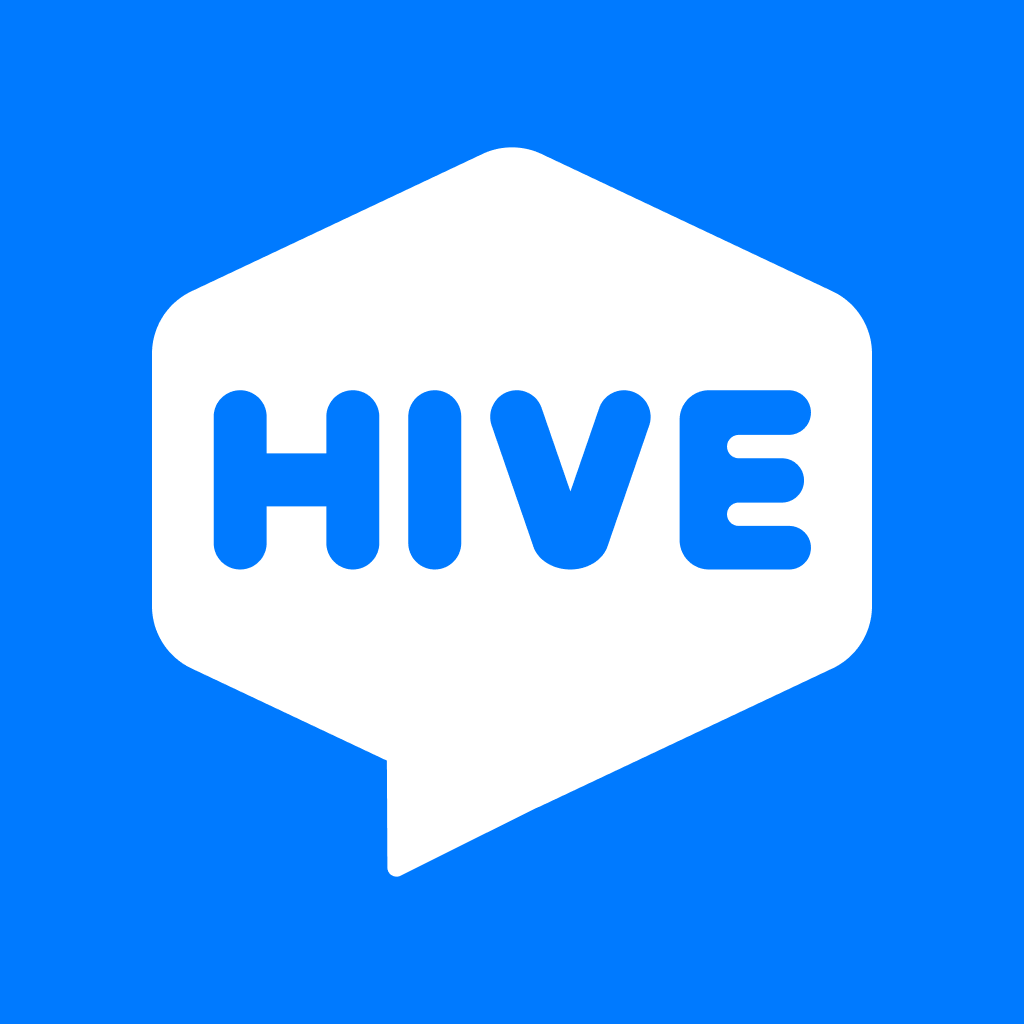
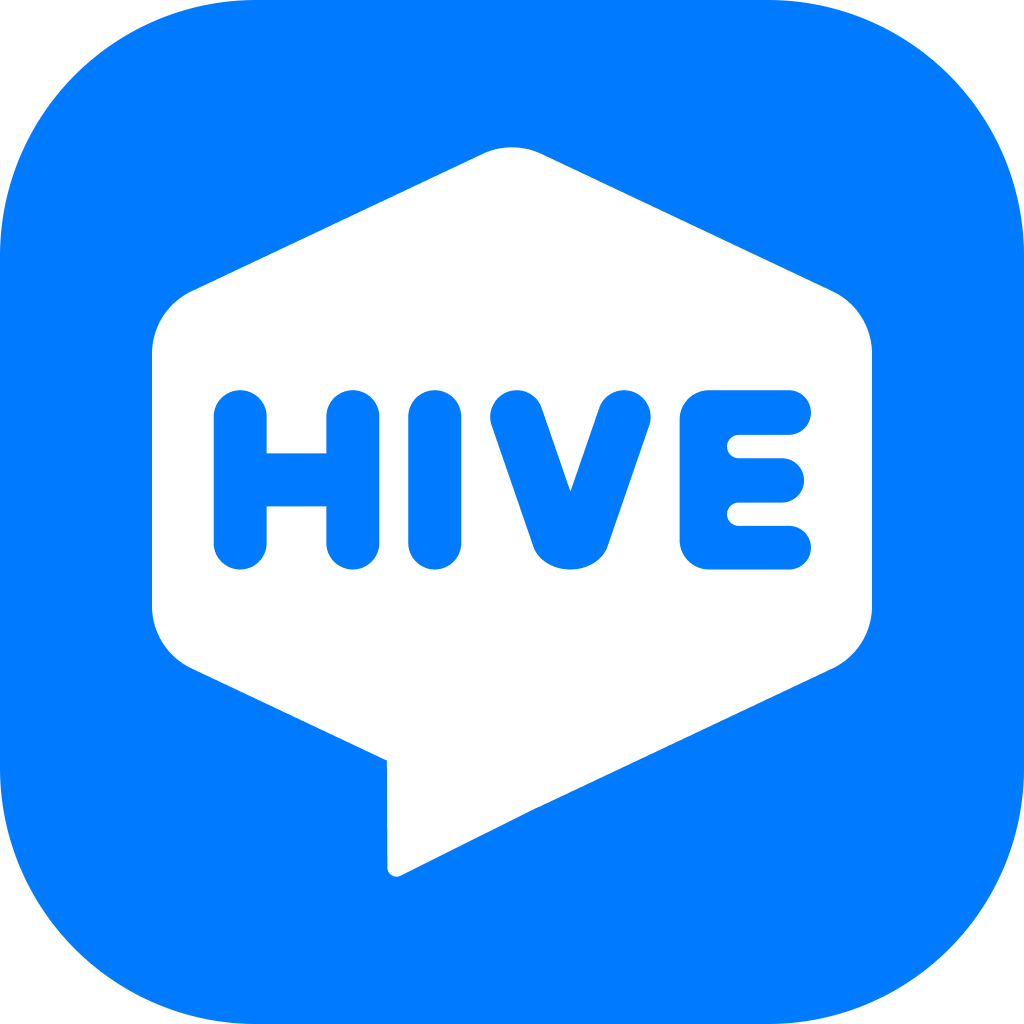
[feat]: 안읽음 배지(작업 표시줄·트레이)와 앱·트레이 아이콘 라운딩
- 작업 표시줄: setOverlayIcon 빨간 점 — 맥 dock 배지의 윈도우 대응물.
  오버레이는 캔버스째 슬롯에 스케일되므로 32px 중앙 배치(화면 ~10px)로 그린다
- 트레이: 아이콘 모서리 라운딩(4/16) + 배지 시 14px 축소 + 6px 점 모서리 걸침
  (가공 로직 trayIcon.ts 분리, BGRA·프리멀티플라이드 주의 주석)
- 앱 아이콘(icon.ico/png) 25% 라운딩 재생성 — 작업 표시줄·시작 메뉴·설치기 전역 적용

Claude-Session: https://claude.ai/code/session_01BD8X2fiKNc4ZRpAk6MDeCq

diff --git a/electron/trayIcon.ts b/electron/trayIcon.ts
@@ -1,0 +1,100 @@
+import { nativeImage } from 'electron';
+import { getIconPath } from './utils';
+
+/* ─── Windows·Linux 트레이 아이콘 가공 ─────────────────────────────
+   원본 앱 아이콘(정사각형)을 16px로 줄인 뒤 모서리를 둥글게 깎고, 안읽음 상태에는
+   우하단에 빨간 점을 합성한다 (2026-09-01 QA: 정사각형이 트레이에서 투박하고,
+   기존 점은 지름 10px + 검정 테두리라 과대했음 → 지름 7px, 테두리 없이 AA만).
+   비트맵은 BGRA 순서 + 프리멀티플라이드 알파 — 색상값에 알파를 곱해 다뤄야 한다.
+   macOS는 전용 템플릿 아이콘(trayIconTemplate.png)을 쓰므로 이 모듈과 무관. */
+
+const SIZE = 16;
+const CORNER_RADIUS = 4;
+const DOT_RADIUS = 3; // 지름 6px (미리보기 확정 2026-09-01 — 7px는 과대)
+// 배지 상태: 캔버스(16px) 밖으로 점을 내밀 수 없으므로 아트워크를 13px로 줄여 좌상단에
+// 배치하고, 점 중심을 그 우하단 모서리에 둬 50/50로 걸치게 한다 (사용자 결정 2026-09-01,
+// 텔레그램 트레이 배지와 동일 기법)
+const BADGE_ART_SIZE = 14; // 점 대비 아이콘을 키움 (미리보기 확정 2026-09-01: 14px + 점 6px)
+const BADGE_ART_RADIUS = 3.5; // 14px 아트워크에 비례한 라운딩 (4 × 14/16 = 3.5)
+const DOT_CENTER = 13; // 점(지름 6px)이 10~16에 걸침 — 아트워크 모서리(14,14)에 50/50
+// 배지 색 #FF3B30 (작업 표시줄 오버레이와 동일) — BGRA 순서
+const DOT_B = 0x30;
+const DOT_G = 0x3b;
+const DOT_R = 0xff;
+
+let cachedBase: Electron.NativeImage | null = null;
+let cachedBadge: Electron.NativeImage | null = null;
+
+/** 픽셀 중심 (x+0.5, y+0.5)의 둥근 사각형(size×size, 반경 radius) 커버리지(0~1) — 경계 1px AA */
+function roundedCoverage(x: number, y: number, size: number, radius: number): number {
+  const px = x + 0.5;
+  const py = y + 0.5;
+  const nearLeft = px < radius;
+  const nearRight = px > size - radius;
+  const nearTop = py < radius;
+  const nearBottom = py > size - radius;
+  if (!(nearLeft || nearRight) || !(nearTop || nearBottom)) return 1; // 모서리 사분면 밖
+  const cx = nearLeft ? radius : size - radius;
+  const cy = nearTop ? radius : size - radius;
+  const dist = Math.hypot(px - cx, py - cy);
+  return Math.max(0, Math.min(1, radius + 0.5 - dist));
+}
+
+/** 기본 트레이 아이콘 — 모서리 둥근 16px */
+export function getRoundedTrayIcon(): Electron.NativeImage {
+  if (cachedBase) return cachedBase;
+  const buf = Buffer.from(
+    nativeImage.createFromPath(getIconPath()).resize({ width: SIZE, height: SIZE }).toBitmap(),
+  );
+  for (let y = 0; y < SIZE; y++) {
+    for (let x = 0; x < SIZE; x++) {
+      const f = roundedCoverage(x, y, SIZE, CORNER_RADIUS);
+      if (f >= 1) continue;
+      const o = (y * SIZE + x) * 4;
+      buf[o] = Math.round(buf[o] * f);
+      buf[o + 1] = Math.round(buf[o + 1] * f);
+      buf[o + 2] = Math.round(buf[o + 2] * f);
+      buf[o + 3] = Math.round(buf[o + 3] * f);
+    }
+  }
+  cachedBase = nativeImage.createFromBuffer(buf, { width: SIZE, height: SIZE });
+  return cachedBase;
+}
+
+/** 안읽음 트레이 아이콘 — 13px 아트워크 + 우하단 모서리에 50/50로 걸친 빨간 점(지름 7px) */
+export function getRoundedTrayBadgeIcon(): Electron.NativeImage {
+  if (cachedBadge) return cachedBadge;
+  const art = nativeImage
+    .createFromPath(getIconPath())
+    .resize({ width: BADGE_ART_SIZE, height: BADGE_ART_SIZE })
+    .toBitmap();
+  const buf = Buffer.alloc(SIZE * SIZE * 4); // 투명 캔버스에 좌상단 정렬로 합성
+  for (let y = 0; y < BADGE_ART_SIZE; y++) {
+    for (let x = 0; x < BADGE_ART_SIZE; x++) {
+      const f = roundedCoverage(x, y, BADGE_ART_SIZE, BADGE_ART_RADIUS);
+      const src = (y * BADGE_ART_SIZE + x) * 4;
+      const dst = (y * SIZE + x) * 4;
+      buf[dst] = Math.round(art[src] * f);
+      buf[dst + 1] = Math.round(art[src + 1] * f);
+      buf[dst + 2] = Math.round(art[src + 2] * f);
+      buf[dst + 3] = Math.round(art[src + 3] * f);
+    }
+  }
+  for (let y = 0; y < SIZE; y++) {
+    for (let x = 0; x < SIZE; x++) {
+      const a = Math.max(
+        0,
+        Math.min(1, DOT_RADIUS + 0.5 - Math.hypot(x + 0.5 - DOT_CENTER, y + 0.5 - DOT_CENTER)),
+      );
+      if (a <= 0) continue;
+      const o = (y * SIZE + x) * 4;
+      // 프리멀티플라이드 "over" 합성: src*α + dst*(1-α)
+      buf[o] = Math.round(DOT_B * a + buf[o] * (1 - a));
+      buf[o + 1] = Math.round(DOT_G * a + buf[o + 1] * (1 - a));
+      buf[o + 2] = Math.round(DOT_R * a + buf[o + 2] * (1 - a));
+      buf[o + 3] = Math.round(255 * a + buf[o + 3] * (1 - a));
+    }
+  }
+  cachedBadge = nativeImage.createFromBuffer(buf, { width: SIZE, height: SIZE });
+  return cachedBadge;
+}

diff --git a/electron/ipc.ts b/electron/ipc.ts
@@ -1,7 +1,8 @@
 import { app, BrowserWindow, dialog, ipcMain, nativeImage, session, Tray } from 'electron';
 import * as fs from 'fs';
 import * as path from 'path';
-import { getIconPath, getTrayIconPath, getTrayBadgeIconPath } from './utils';
+import { getTrayIconPath, getTrayBadgeIconPath } from './utils';
+import { getRoundedTrayIcon, getRoundedTrayBadgeIcon } from './trayIcon';
 import { showCustomNotification, showNativeNotification, NotificationData } from './notifications';
 import { updateTrayMenu, getTrayAuthState } from './tray';
 import { setEscSuppressed, openChatWindow, broadcastToChatWindows, closeAllChatWindows, closeChatWindow } from './window';
@@ -15,6 +16,35 @@ const pendingDownloads = new Map<
   string,
   { filename: string; directory?: string; resolve: (ok: boolean) => void }
 >();
+
+/* ─── 작업 표시줄 안읽음 배지 (Windows) ─────────────────────────────
+   맥 dock 배지의 윈도우 대응물 — setOverlayIcon으로 아이콘 우하단에 빨간 점을 얹는다
+   (숫자 없이 점만, 사용자 결정 2026-09-01). 색은 트레이 점과 동일한 #FF3B30.
+   주의: 오버레이는 캔버스 전체가 고정 슬롯(약 16px)에 스케일되어 그려진다 — 구석에 작은
+   점만 그리면 반점처럼 찌그러진다(실측 2026-09-01). Teams식으로 32px 캔버스 중앙에
+   비례 큰 점(20px)을 그려 화면에서 ~10px 원이 되게 한다 (다운스케일이라 경계도 깔끔).
+   원시 버퍼는 BGRA 순서 + 프리멀티플라이드 알파(색상값×알파) — 경계 1px 안티앨리어싱. */
+let unreadOverlayIcon: Electron.NativeImage | null = null;
+function getUnreadOverlayIcon(): Electron.NativeImage {
+  if (unreadOverlayIcon) return unreadOverlayIcon;
+  const size = 32;
+  const buf = Buffer.alloc(size * size * 4); // 투명 배경
+  const radius = 10;
+  const center = (size - 1) / 2; // 중앙 정렬 — 슬롯 안에서 원이 통째로 보인다
+  for (let y = 0; y < size; y++) {
+    for (let x = 0; x < size; x++) {
+      const alpha = Math.max(0, Math.min(1, radius + 0.5 - Math.hypot(x - center, y - center)));
+      if (alpha === 0) continue;
+      const offset = (y * size + x) * 4;
+      buf[offset] = Math.round(0x30 * alpha);     // B
+      buf[offset + 1] = Math.round(0x3b * alpha); // G
+      buf[offset + 2] = Math.round(0xff * alpha); // R
+      buf[offset + 3] = Math.round(255 * alpha);
+    }
+  }
+  unreadOverlayIcon = nativeImage.createFromBuffer(buf, { width: size, height: size });
+  return unreadOverlayIcon;
+}
 
 /** "이름 (1).ext" 식으로 중복을 피한 저장 경로 */
 function uniqueSavePath(dir: string, filename: string): string {
@@ -118,36 +148,20 @@ export function setupIpcHandlers(
           tray.setImage(originalIcon);
         }
       }
-    } else if (process.platform === 'win32' && tray) {
-      const baseIcon = nativeImage.createFromPath(getIconPath()).resize({ width: 16, height: 16 });
-      if (count > 0) {
-        const size = 16;
-        const raw = baseIcon.toBitmap();
-        const dotRadius = 5;
-        const dotCenterX = size - dotRadius;
-        const dotCenterY = size - dotRadius;
-        const borderRadius = dotRadius + 1;
-
-        for (let y = 0; y < size; y++) {
-          for (let x = 0; x < size; x++) {
-            const dx = x - dotCenterX;
-            const dy = y - dotCenterY;
-            const dist = dx * dx + dy * dy;
-            const offset = (y * size + x) * 4;
-            if (dist <= dotRadius * dotRadius) {
-              raw[offset] = 0x30; raw[offset + 1] = 0x3B;
-              raw[offset + 2] = 0xFF; raw[offset + 3] = 0xFF;
-            } else if (dist <= borderRadius * borderRadius) {
-              raw[offset] = 0x00; raw[offset + 1] = 0x00;
-              raw[offset + 2] = 0x00; raw[offset + 3] = 0xFF;
-            }
-          }
+    } else if (process.platform === 'win32') {
+      // 작업 표시줄 아이콘 우하단 빨간 점 — 트레이가 없어도 동작하도록 트레이와 분리
+      const mainWindow = deps.getMainWindow();
+      if (mainWindow && !mainWindow.isDestroyed()) {
+        if (count > 0) {
+          mainWindow.setOverlayIcon(getUnreadOverlayIcon(), `읽지 않은 메시지 ${count}개`);
+        } else {
+          mainWindow.setOverlayIcon(null, '');
         }
-
-        tray.setImage(nativeImage.createFromBuffer(raw, { width: size, height: size }));
-      } else {
-        tray.setImage(baseIcon);
       }
+
+      if (!tray) return;
+      // 둥근 아이콘 + 우하단 빨간 점(지름 7px) — 가공 로직은 trayIcon.ts (2026-09-01 QA)
+      tray.setImage(count > 0 ? getRoundedTrayBadgeIcon() : getRoundedTrayIcon());
     }
   });
 

diff --git a/electron/tray.ts b/electron/tray.ts
@@ -1,5 +1,6 @@
 import { app, BrowserWindow, Menu, nativeImage, Tray } from 'electron';
-import { getIconPath, getTrayIconPath, isDev } from './utils';
+import { getTrayIconPath, isDev } from './utils';
+import { getRoundedTrayIcon } from './trayIcon';
 
 let trayIsLoggedIn = false;
 let trayIsLocked = false;
@@ -78,7 +79,8 @@ export function createTray(deps: {
     icon = nativeImage.createFromPath(getTrayIconPath());
     icon.setTemplateImage(true);
   } else {
-    icon = nativeImage.createFromPath(getIconPath()).resize({ width: 16, height: 16 });
+    // 모서리 둥근 16px (2026-09-01 QA — 정사각형 원본이 트레이에서 투박)
+    icon = getRoundedTrayIcon();
   }
 
   const tray = new Tray(icon);
